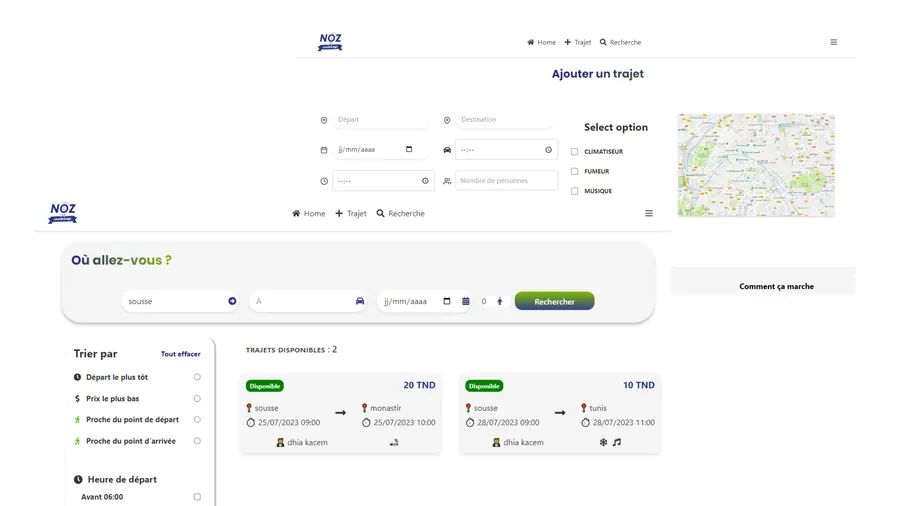
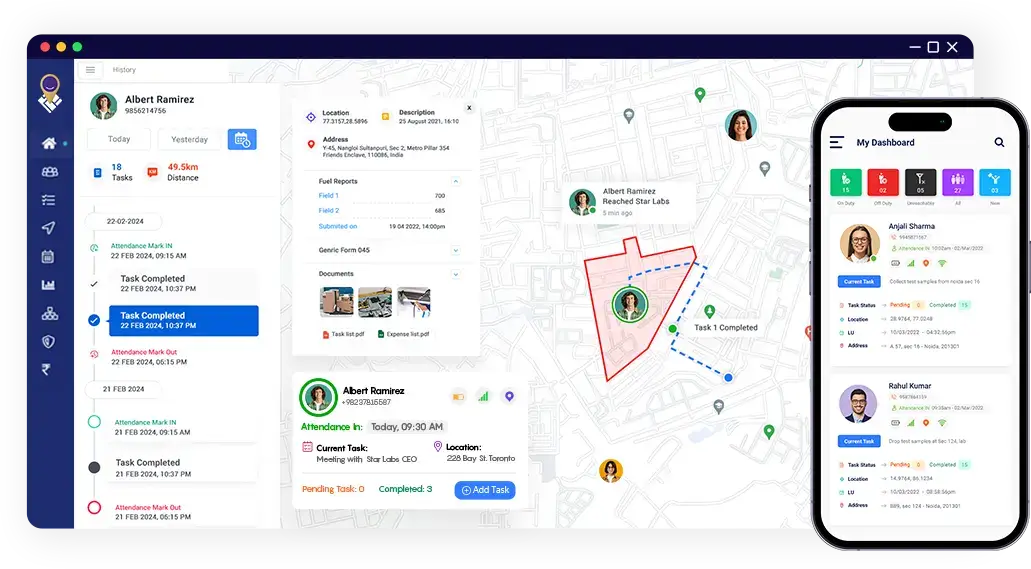
Verify contact flow and refresh project presentation

diff --git a/src/components/Contact.jsx b/src/components/Contact.jsx
@@ -1,4 +1,4 @@
-import React, { useRef, useState, useEffect } from "react";
+import React, { useState, useEffect } from "react";
 import { motion } from "framer-motion";
 import emailjs from "@emailjs/browser";
 
@@ -8,8 +8,11 @@ import { SectionWrapper } from "../hoc";
 import { slideIn } from "../utils/motion";
 import { useTranslation } from "react-i18next";
 
+const emailServiceId = import.meta.env.VITE_APP_EMAILJS_SERVICE_ID;
+const emailTemplateId = import.meta.env.VITE_APP_EMAILJS_TEMPLATE_ID;
+const emailPublicKey = import.meta.env.VITE_APP_EMAILJS_PUBLIC_KEY;
+
 const Contact = () => {
-  const formRef = useRef();
   const [form, setForm] = useState({
     name: "",
     email: "",
@@ -17,61 +20,49 @@ const Contact = () => {
   });
 
   const [loading, setLoading] = useState(false);
+  const [submissionStatus, setSubmissionStatus] = useState(null);
   const { t } = useTranslation();
 
-  // Initialize EmailJS on component mount
   useEffect(() => {
-    emailjs.init(import.meta.env.VITE_APP_EMAILJS_PUBLIC_KEY);
+    if (emailPublicKey) emailjs.init(emailPublicKey);
   }, []);
 
   const handleChange = (e) => {
     const { target } = e;
     const { name, value } = target;
 
-    setForm({
-      ...form,
-      [name]: value,
-    });
+    setForm((current) => ({ ...current, [name]: value }));
+    setSubmissionStatus(null);
   };
 
-  const handleSubmit = (e) => {
+  const handleSubmit = async (e) => {
     e.preventDefault();
     setLoading(true);
+    setSubmissionStatus(null);
 
-    // Get current date/time for the template
-    const now = new Date().toLocaleString();
+    try {
+      if (!emailServiceId || !emailTemplateId || !emailPublicKey) {
+        throw new Error("Contact form email service is not configured.");
+      }
 
-    emailjs
-      .send(
-        import.meta.env.VITE_APP_EMAILJS_SERVICE_ID,
-        import.meta.env.VITE_APP_EMAILJS_TEMPLATE_ID,
+      await emailjs.send(
+        emailServiceId,
+        emailTemplateId,
         {
-          // Match these keys to your EmailJS template variable names
-          name: form.name,
-          email: form.email,
-          message: form.message,
-          time: now,
+          name: form.name.trim(),
+          email: form.email.trim(),
+          message: form.message.trim(),
+          time: new Date().toLocaleString(),
         },
-        import.meta.env.VITE_APP_EMAILJS_PUBLIC_KEY
-      )
-      .then(
-        () => {
-          setLoading(false);
-          alert(t('contact.success'));
-
-          setForm({
-            name: "",
-            email: "",
-            message: "",
-          });
-        },
-        (error) => {
-          setLoading(false);
-          console.error("EmailJS Error:", error);
-
-          alert(t('contact.error'));
-        }
+        emailPublicKey
       );
+      setSubmissionStatus("success");
+      setForm({ name: "", email: "", message: "" });
+    } catch {
+      setSubmissionStatus("error");
+    } finally {
+      setLoading(false);
+    }
   };
 
   return (
@@ -86,7 +77,6 @@ const Contact = () => {
         <h3 className={styles.sectionHeadText}>{t('contact.title')}</h3>
 
         <form
-          ref={formRef}
           onSubmit={handleSubmit}
           className='mt-12 flex flex-col gap-8'
         >
@@ -95,6 +85,9 @@ const Contact = () => {
             <input
               type='text'
               name='name'
+              autoComplete='name'
+              maxLength={100}
+              required
               value={form.name}
               onChange={handleChange}
               placeholder={t('contact.name_placeholder')}
@@ -106,6 +99,9 @@ const Contact = () => {
             <input
               type='email'
               name='email'
+              autoComplete='email'
+              maxLength={254}
+              required
               value={form.email}
               onChange={handleChange}
               placeholder={t('contact.email_placeholder')}
@@ -117,6 +113,8 @@ const Contact = () => {
             <textarea
               rows={7}
               name='message'
+              maxLength={5000}
+              required
               value={form.message}
               onChange={handleChange}
               placeholder={t('contact.message_placeholder')}
@@ -124,10 +122,22 @@ const Contact = () => {
             />
           </label>
 
+          {submissionStatus && (
+            <p
+              role={submissionStatus === "error" ? "alert" : "status"}
+              aria-live={submissionStatus === "error" ? "assertive" : "polite"}
+              className={`-mt-4 rounded-lg border px-4 py-3 text-sm ${submissionStatus === "success" ? "border-emerald-400/30 bg-emerald-400/10 text-emerald-200" : "border-rose-400/30 bg-rose-400/10 text-rose-200"}`}
+            >
+              {t(`contact.${submissionStatus}`)}
+            </p>
+          )}
+
           <div className='flex justify-end'>
             <button
               type='submit'
-              className='bg-tertiary dark:bg-tertiary-dark py-3 px-8 rounded-xl outline-none text-white font-bold shadow-md shadow-primary hover:bg-[#2d1b4e] transition-colors duration-300'
+              disabled={loading}
+              aria-busy={loading}
+              className='bg-tertiary dark:bg-tertiary-dark py-3 px-8 rounded-xl outline-none text-white font-bold shadow-md shadow-primary hover:bg-[#2d1b4e] transition-colors duration-300 disabled:cursor-wait disabled:opacity-60'
             >
               {loading ? t('contact.sending') : t('contact.send')}
             </button>
